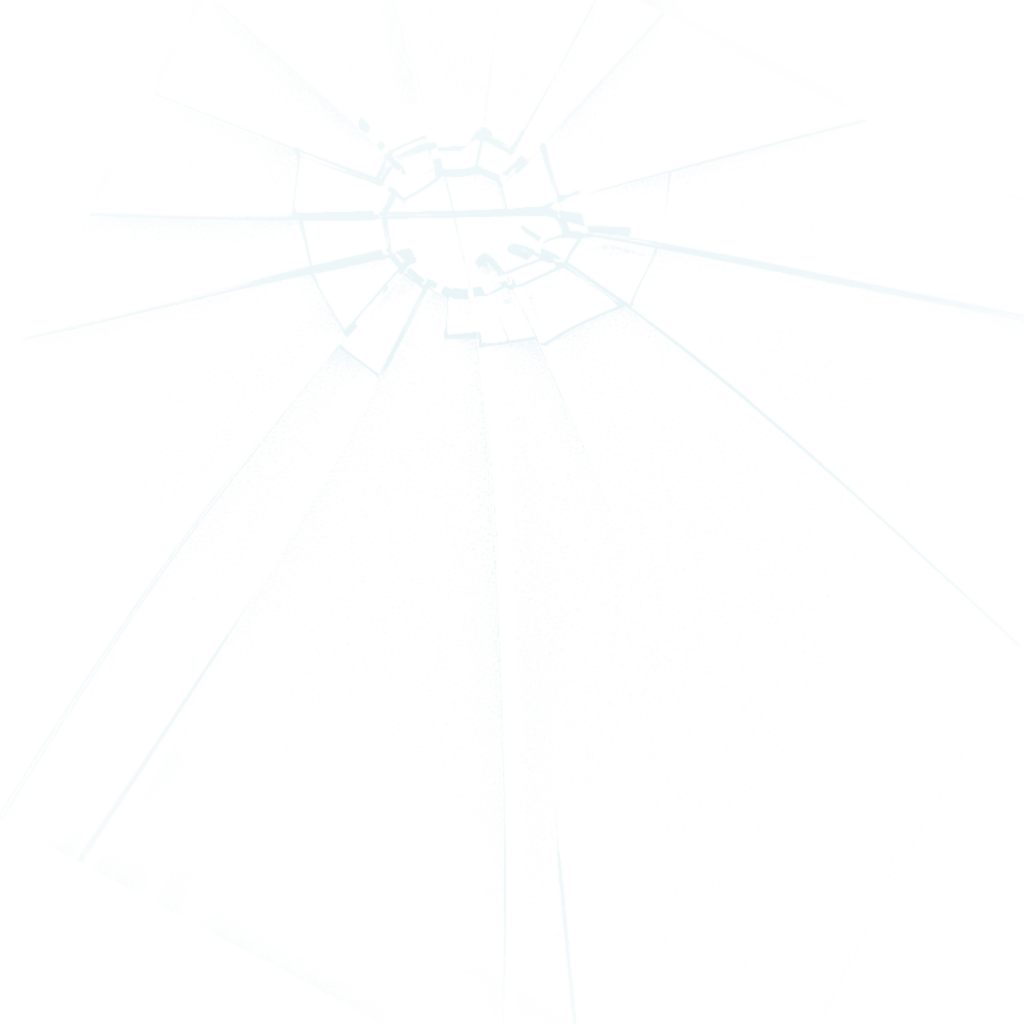
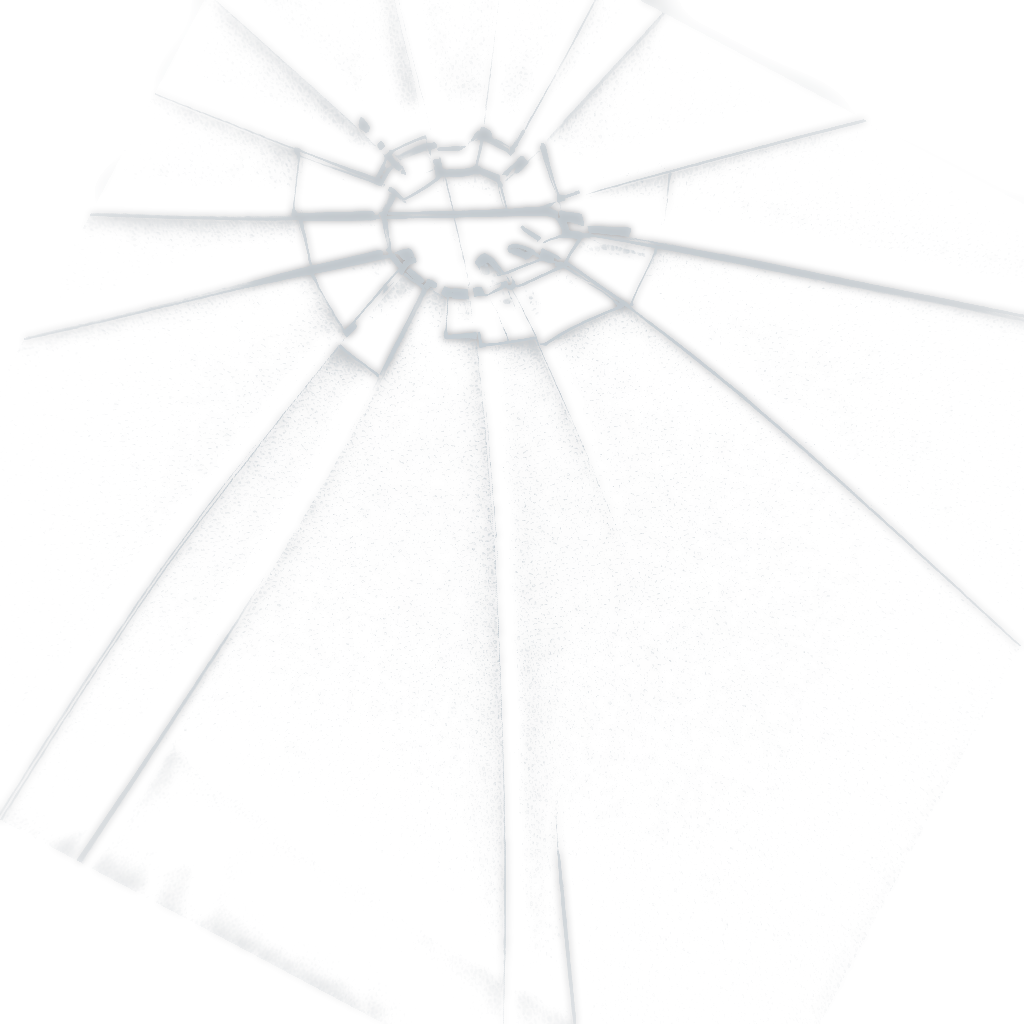
Pricing dropdown + crack depth/bevel
Pricing: full price list is now a click-to-open dropdown (native <details>/<summary> with a rotating chevron + reveal animation), so the section stays compact. Cracks: reprocess the overlay with a beveled look — a dimmer bright fracture line plus a dark halo that darkens the screen along the breaks — so it reads as the glass being shattered rather than lines pasted on top (front + back variants).

diff --git a/styles.css b/styles.css
@@ -218,9 +218,28 @@ html.no-webgl .phone-fallback { display: block; }
 .pricing .eyebrow { color: var(--gold); }
 .pricing__title { text-align: center; margin-top: 0.6rem; font-family: var(--font-display); font-weight: 400; font-size: clamp(1.9rem, 1.3rem + 2.6vw, 3rem); color: var(--bg); letter-spacing: 0.01em; }
 .pricing__sub { text-align: center; margin-top: 0.6rem; color: rgba(255, 255, 255, 0.6); }
+/* click-to-open dropdown */
+.price-drop { max-width: 720px; margin: clamp(2rem, 4vw, 3rem) auto 0; }
+.price-drop__head {
+  display: flex; align-items: center; justify-content: space-between; gap: 1rem;
+  padding: 1rem 1.4rem; cursor: pointer; list-style: none;
+  border: 1px solid rgba(255, 255, 255, 0.16); border-radius: 14px;
+  background: rgba(255, 255, 255, 0.05);
+  font-weight: 600; color: #fff; letter-spacing: 0.02em;
+  transition: background 0.2s var(--ease-out), border-radius 0.2s var(--ease-out);
+}
+.price-drop__head::-webkit-details-marker { display: none; }
+.price-drop__head:hover { background: rgba(255, 255, 255, 0.09); }
+.price-drop__chev { color: var(--gold); transition: transform 0.25s var(--ease-out); }
+.price-drop[open] .price-drop__head { border-radius: 14px 14px 0 0; border-bottom-color: transparent; }
+.price-drop[open] .price-drop__chev { transform: rotate(180deg); }
+.price-drop[open] .price-card,
+.price-drop[open] .pricing__note { animation: priceDrop 0.35s var(--ease-out); }
+@keyframes priceDrop { from { opacity: 0; transform: translateY(-8px); } to { opacity: 1; transform: none; } }
+
 .price-card {
-  max-width: 720px; margin: clamp(2rem, 4vw, 3rem) auto 0;
-  border: 1px solid rgba(255, 255, 255, 0.12); border-radius: 18px; overflow: hidden;
+  border: 1px solid rgba(255, 255, 255, 0.12); border-top: 0;
+  border-radius: 0 0 14px 14px; overflow: hidden;
   background: rgba(255, 255, 255, 0.035);
   -webkit-backdrop-filter: blur(6px); backdrop-filter: blur(6px);
   box-shadow: 0 30px 70px -40px rgba(0, 0, 0, 0.8);

diff --git a/index.html b/index.html
@@ -184,8 +184,13 @@
         <p class="eyebrow center">Repair pricing</p>
         <h2 class="pricing__title">iPhone screen &amp; back glass</h2>
         <p class="pricing__sub">Transparent, upfront pricing — most repairs done while you wait.</p>
-        <div class="price-card">
-          <table class="price-table">
+        <details class="price-drop">
+          <summary class="price-drop__head">
+            <span>View full price list</span>
+            <svg class="price-drop__chev" viewBox="0 0 24 24" width="18" height="18" fill="none" stroke="currentColor" stroke-width="2" stroke-linecap="round" stroke-linejoin="round" aria-hidden="true"><path d="M6 9l6 6 6-6"/></svg>
+          </summary>
+          <div class="price-card">
+            <table class="price-table">
             <thead>
               <tr><th scope="col">Model</th><th scope="col">Screen</th><th scope="col">Back&nbsp;glass</th></tr>
             </thead>
@@ -213,7 +218,8 @@
             </tbody>
           </table>
         </div>
-        <p class="pricing__note">Prices in AUD. “—” = coming soon / price on application. Other phones, tablets &amp; laptops — just ask.</p>
+          <p class="pricing__note">Prices in AUD. “—” = coming soon / price on application. Other phones, tablets &amp; laptops — just ask.</p>
+        </details>
       </div>
     </section>
 